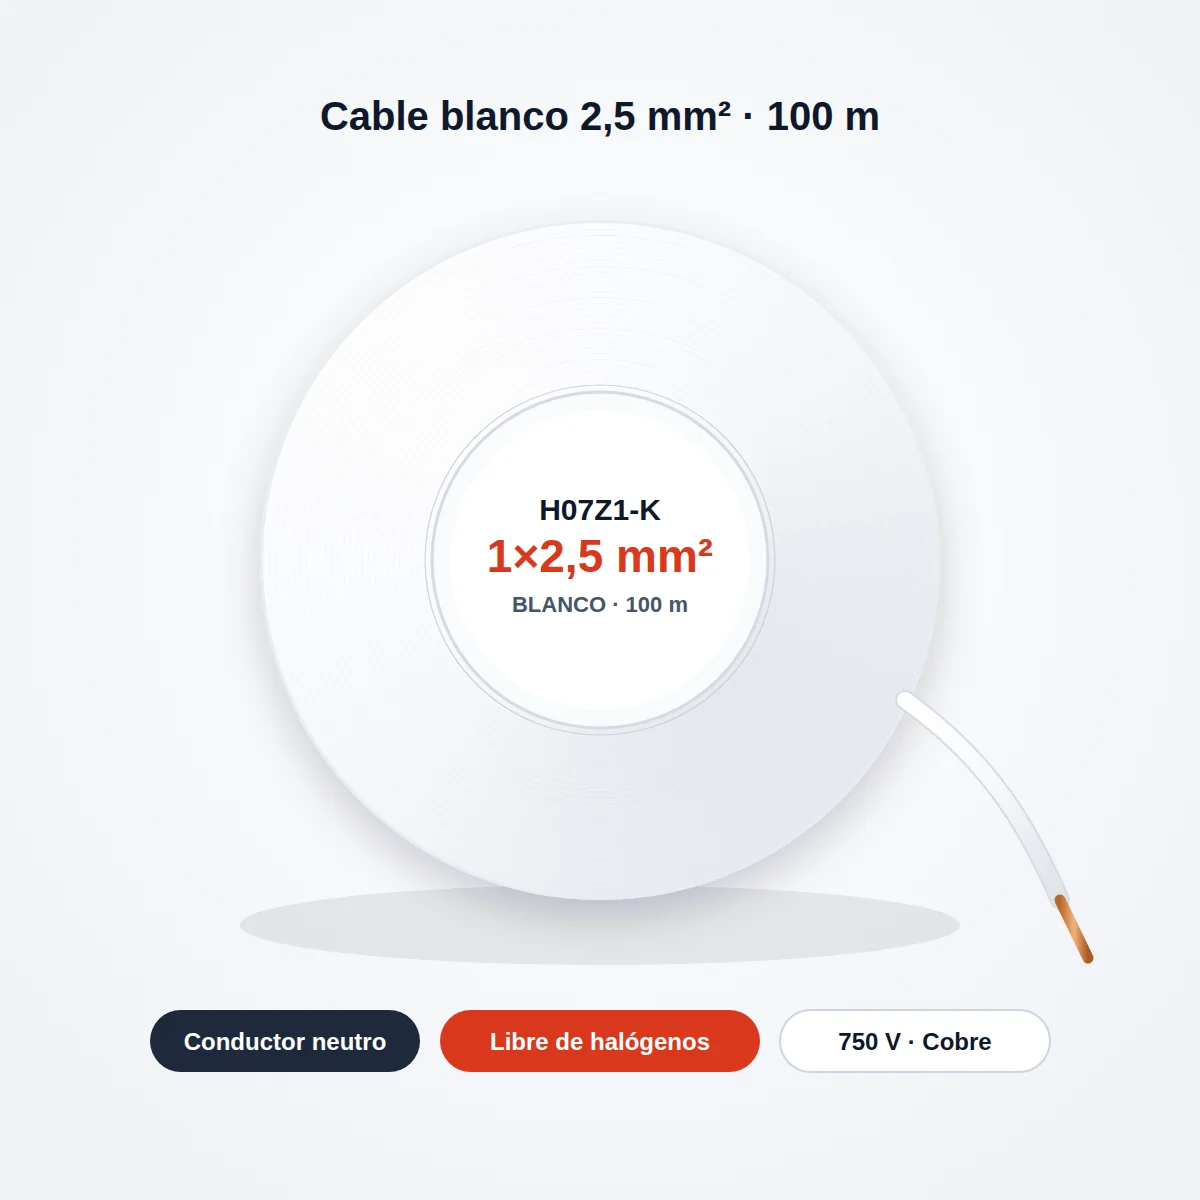
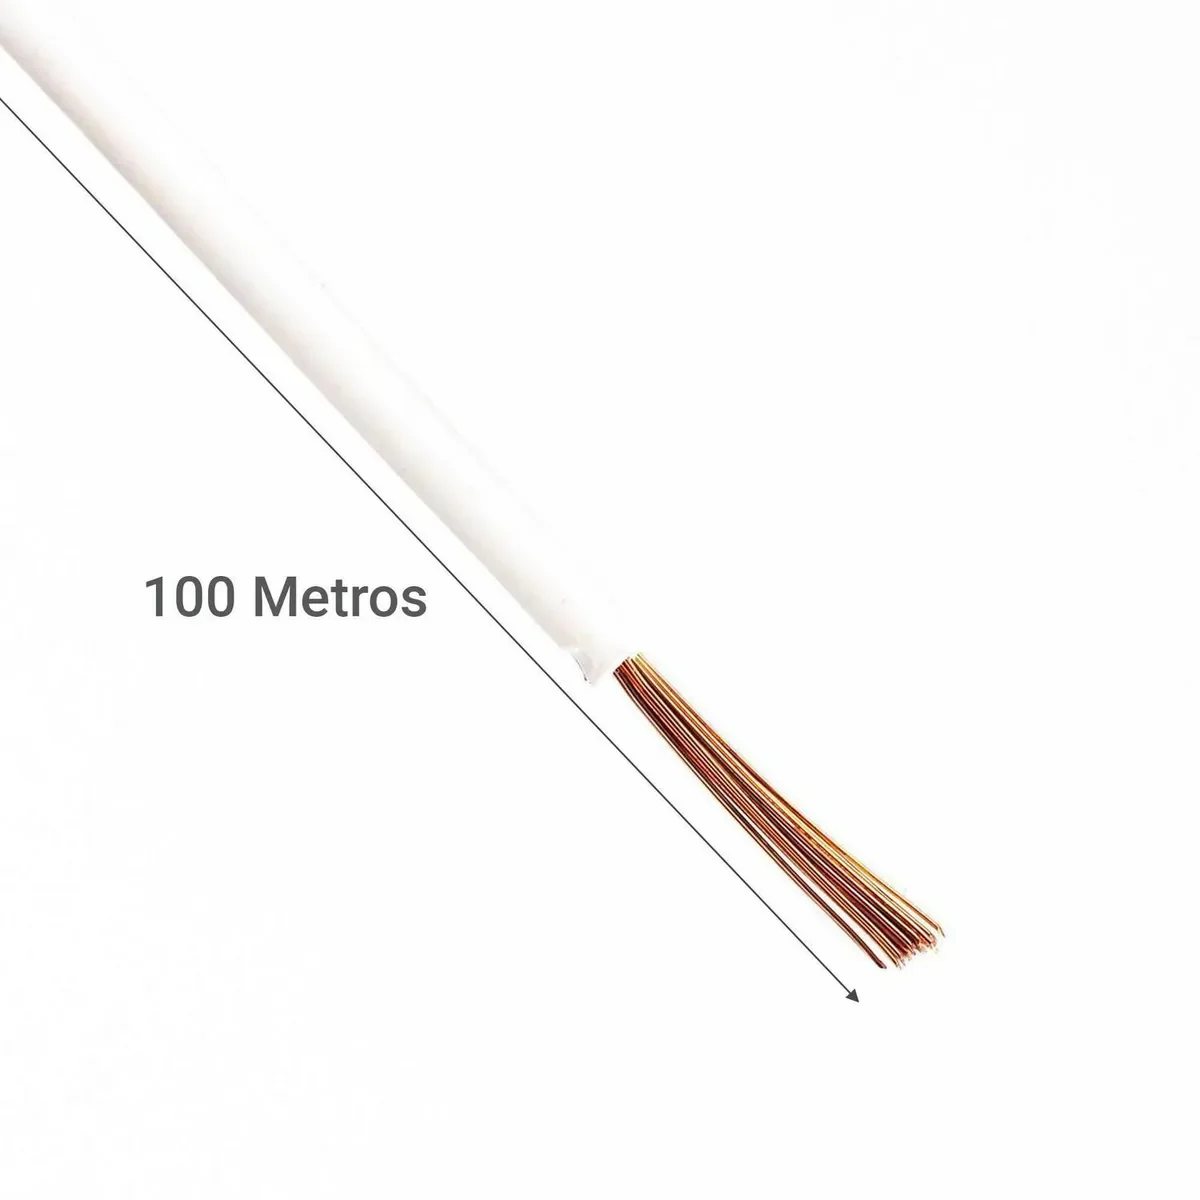
Use real product photos for white neutral cable
Replaces the provisional illustration with the close-up photo and adds
the MADECO Freetox-Flex roll photo, with a clickable thumbnail gallery.

Claude-Session: https://claude.ai/code/session_01DBPAUYL8BrfvACdajPm8UX

diff --git a/producto/cable-neutro-blanco-2-5-mm2-libre-halogenos-100m.html b/producto/cable-neutro-blanco-2-5-mm2-libre-halogenos-100m.html
@@ -29,7 +29,7 @@
 "@type":"Product",
 "name":"Cable neutro blanco 2,5 mm² libre de halógenos H07Z1-K 100 m MADECO",
 "description":"Rollo de 100 metros de cable blanco 1×2,5 mm² tipo H07Z1-K, marca MADECO, para el conductor neutro de instalaciones eléctricas en Chile (color blanco según NCh Elec 4/2003, numeral 8.0.4.15). Conductor de cobre flexible, aislación libre de halógenos, tensión nominal 450/750 V. Certificado SEC E-021-14-4239. Para circuitos de enchufes, iluminación y tableros domiciliarios.",
-"image":["https://www.ferreteriaukra.cl/producto/cable-neutro-blanco-2-5-mm2-libre-halogenos-100m.webp"],
+"image":["https://www.ferreteriaukra.cl/producto/cable-neutro-blanco-2-5-mm2-libre-halogenos-100m.webp","https://www.ferreteriaukra.cl/producto/cable-neutro-blanco-2-5-mm2-libre-halogenos-100m-02.webp"],
 "brand":{"@type":"Brand","name":"MADECO"},
 "model":"H07Z1-K 1×2,5 mm² blanco",
 "color":"Blanco",
@@ -127,6 +127,11 @@ nav a:hover{color:#FFF;text-decoration:none;border-bottom-color:var(--primary)}
 .hero h1{font-size:clamp(2rem,4.5vw,3.5rem);font-weight:800;line-height:1.1;letter-spacing:-.025em;margin:14px 0 18px;color:var(--text-main)}
 .hero .lede{font-size:1.05rem;color:var(--text-muted);max-width:690px;line-height:1.7}
 .hero-media{position:relative}
+.main-shot{position:relative}
+.thumbs{display:flex;gap:10px;margin-top:12px}
+.thumbs button{padding:0;border:2px solid var(--border-color);border-radius:var(--radius-md);background:#fff;cursor:pointer;width:84px;height:84px;overflow:hidden;transition:border-color .2s}
+.thumbs button[aria-current="true"],.thumbs button:hover{border-color:var(--primary)}
+.hero-media .thumbs img{width:100%;height:100%;object-fit:contain;border:0;border-radius:0;box-shadow:none;aspect-ratio:auto}
 .hero-media img{display:block;width:100%;aspect-ratio:1/1;object-fit:contain;background:#fff;border-radius:var(--radius-lg);box-shadow:var(--shadow-lg);border:1px solid var(--border-color)}
 .stock-note{position:absolute;left:16px;bottom:16px;background:rgba(255,255,255,.96);border:1px solid var(--border-color);border-radius:var(--radius-md);padding:10px 14px;font-size:.82rem;box-shadow:var(--shadow-md)}
 .stock-note strong{display:block;color:var(--text-main)}
@@ -275,10 +280,16 @@ try{var c=document.cookie.match(/(?:^|;\s*)rel_consent=([^;]+)/);if(c&&c[1]==='g
     <p class="microcopy">Pago por transferencia, tarjeta o Flow · IVA incluido</p>
   </div>
   <div class="hero-media">
-    <img src="/producto/cable-neutro-blanco-2-5-mm2-libre-halogenos-100m.webp" alt="Rollo de cable blanco 2,5 mm² libre de halógenos H07Z1-K de 100 metros para conductor neutro" width="800" height="800" loading="eager">
-    <div class="stock-note">
-      <strong>En stock</strong>
-      <span>Despacho en 24-48 h hábiles</span>
+    <div class="main-shot">
+      <img id="mainShot" src="/producto/cable-neutro-blanco-2-5-mm2-libre-halogenos-100m.webp" alt="Cable blanco 2,5 mm² libre de halógenos H07Z1-K de 100 metros con conductor de cobre flexible para neutro" width="800" height="800" loading="eager">
+      <div class="stock-note">
+        <strong>En stock</strong>
+        <span>Despacho en 24-48 h hábiles</span>
+      </div>
+    </div>
+    <div class="thumbs" role="group" aria-label="Fotos del producto">
+      <button type="button" aria-current="true" data-src="/producto/cable-neutro-blanco-2-5-mm2-libre-halogenos-100m.webp" data-alt="Cable blanco 2,5 mm² libre de halógenos H07Z1-K de 100 metros con conductor de cobre flexible para neutro"><img src="/producto/cable-neutro-blanco-2-5-mm2-libre-halogenos-100m.webp" alt="Ver foto del cable blanco con cobre flexible" width="84" height="84"></button>
+      <button type="button" data-src="/producto/cable-neutro-blanco-2-5-mm2-libre-halogenos-100m-02.webp" data-alt="Rollo de 100 m de cable MADECO Freetox-Flex H07Z1-K 2,5 mm² blanco libre de halógenos"><img src="/producto/cable-neutro-blanco-2-5-mm2-libre-halogenos-100m-02.webp" alt="Ver foto del rollo MADECO Freetox-Flex 100 m" width="84" height="84" loading="lazy"></button>
     </div>
   </div>
 </section>
@@ -317,6 +328,7 @@ try{var c=document.cookie.match(/(?:^|;\s*)rel_consent=([^;]+)/);if(c&&c[1]==='g
 <tr><td>Marca</td><td>MADECO (fabricado en Chile)</td></tr>
 <tr><td>Uso en el circuito</td><td>Conductor neutro (N)</td></tr>
 <tr><td>Color</td><td>Blanco</td></tr>
+<tr><td>Línea</td><td>Freetox-Flex (cable de baja tensión libre de halógenos)</td></tr>
 <tr><td>Designación</td><td>H07Z1-K</td></tr>
 <tr><td>Sección</td><td>1×2,5 mm² (unipolar)</td></tr>
 <tr><td>Conductor</td><td>Cobre flexible clase 5</td></tr>
@@ -537,6 +549,9 @@ try{var c=document.cookie.match(/(?:^|;\s*)rel_consent=([^;]+)/);if(c&&c[1]==='g
 <script>
 var m=document.getElementById('menuToggle'),n=document.getElementById('mainNav');
 m.addEventListener('click',function(){var o=n.classList.toggle('active');this.setAttribute('aria-expanded',o);this.innerHTML=o?'✕':'☰'});
+</script>
+<script>
+document.querySelectorAll('.thumbs button').forEach(function(b){b.addEventListener('click',function(){var m=document.getElementById('mainShot');m.src=b.dataset.src;m.alt=b.dataset.alt;document.querySelectorAll('.thumbs button').forEach(function(x){x.setAttribute('aria-current',x===b?'true':'false')})})});
 </script>
 <script src="/assets/cart.js"></script>
 </body>
